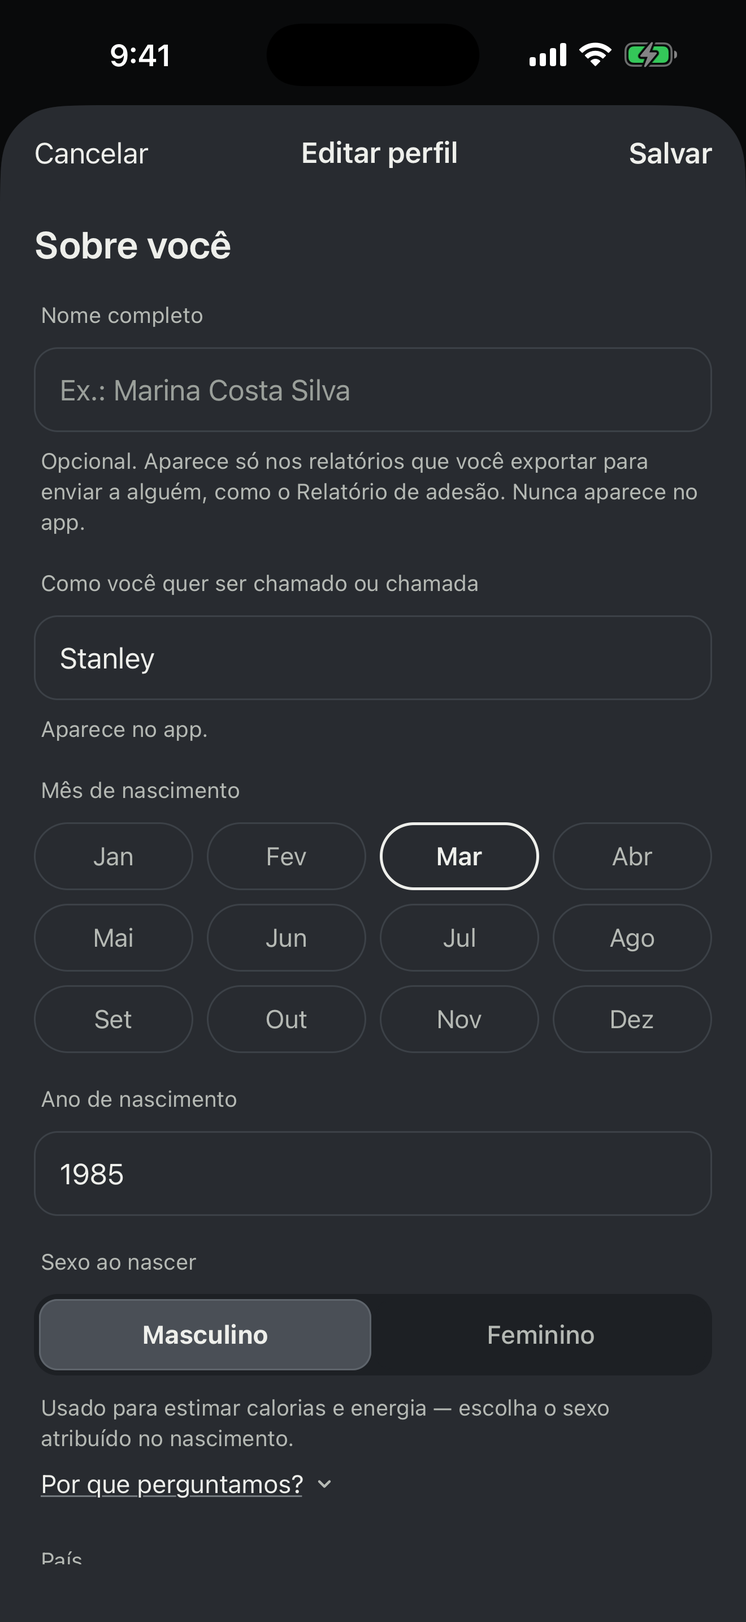
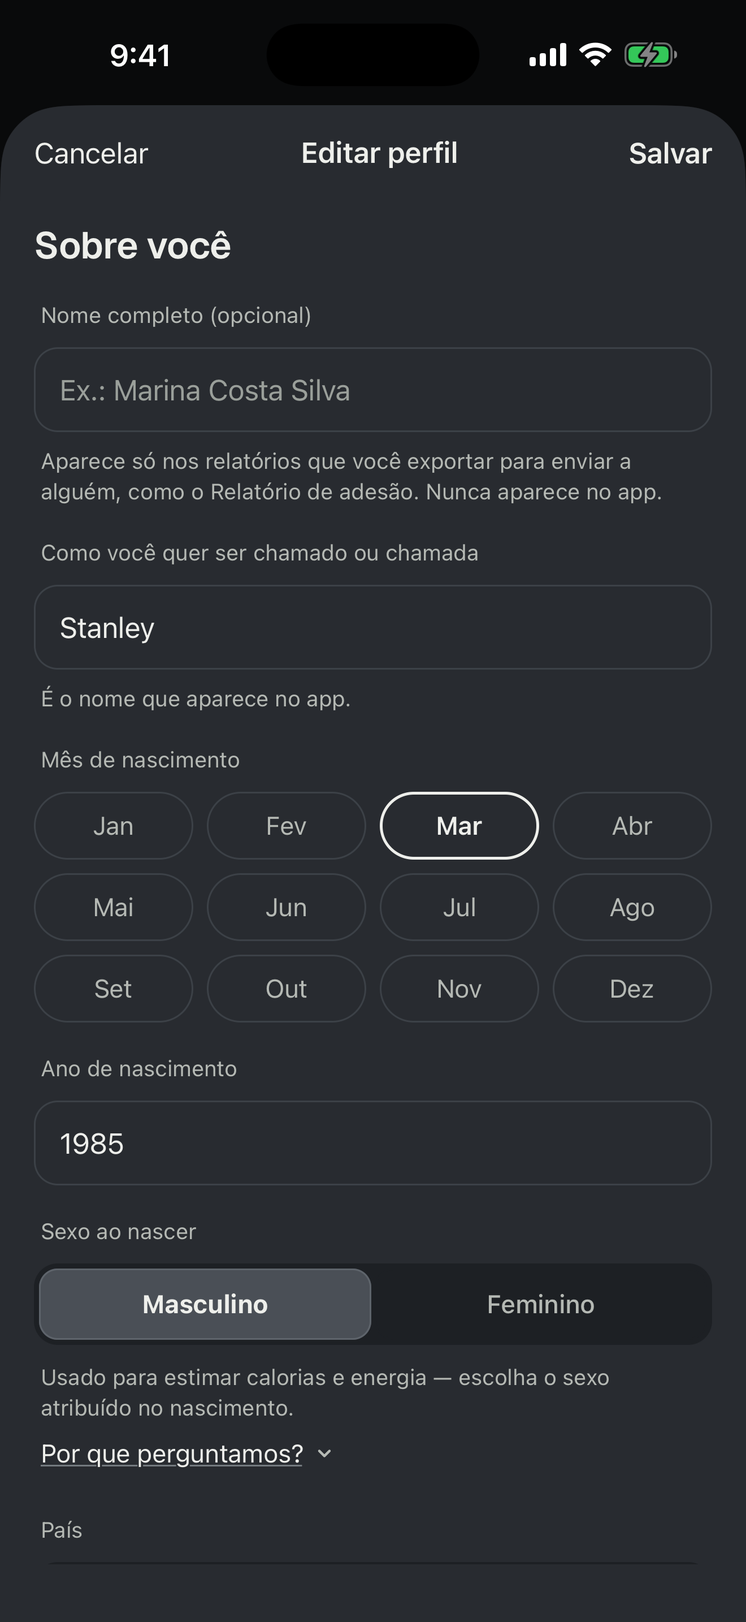
Edit profile: the newer approved copy (picture 19a9d92f, chair 2026-11-24) - Nome completo (opcional) with its hint, the nickname with E o nome que aparece no app, and the auto-fill line while the nickname holds the first name it wrote; 6 languages, test first. Spec: English dates decided by logic; 

diff --git a/i18n/translations.js b/i18n/translations.js
@@ -2787,10 +2787,11 @@ export const translations = {
     report_name_field_hint: "Saved to your profile and shown only in the reports you export. You can change it in Edit profile.",
     report_name_generate: "Create report",
     profile_nickname: "What should we call you?",
-    profile_nickname_hint: "Shown in the app.",
-    profile_report_name: "Full name",
+    profile_nickname_hint: "This is the name shown in the app.",
+    profile_nickname_autofill: "Filled in with your first name. You can erase it and write a nickname.",
+    profile_report_name: "Full name (optional)",
     profile_report_name_placeholder: "E.g. Sam Carter",
-    profile_report_name_hint: "Optional. Shown only in the reports you export to send to someone, like the Adherence report. Never shown in the app.",
+    profile_report_name_hint: "Shown only in the reports you export to send to someone, like the Adherence report. Never shown in the app.",
     vials_count_of: '{x} of {y}',
     vials_days_of_total: '{x} of {y} days',
     vials_mix_summary: '{amount} mg · {water} ml diluent',
@@ -5960,10 +5961,11 @@ export const translations = {
     report_name_field_hint: "Se guarda en tu perfil y aparece solo en los informes que exportes. Puedes cambiarlo en Editar perfil.",
     report_name_generate: "Generar informe",
     profile_nickname: "¿Cómo quieres que te llamemos?",
-    profile_nickname_hint: "Aparece en la app.",
-    profile_report_name: "Nombre completo",
+    profile_nickname_hint: "Es el nombre que aparece en la app.",
+    profile_nickname_autofill: "Rellenado con tu primer nombre. Puedes borrarlo y escribir un apodo.",
+    profile_report_name: "Nombre completo (opcional)",
     profile_report_name_placeholder: "Ej.: Lucía García López",
-    profile_report_name_hint: "Opcional. Aparece solo en los informes que exportes para enviar a alguien, como el Informe de adherencia. Nunca aparece en la app.",
+    profile_report_name_hint: "Aparece solo en los informes que exportes para enviar a alguien, como el Informe de adherencia. Nunca aparece en la app.",
     vials_count_of: '{x} de {y}',
     vials_days_of_total: '{x} de {y} días',
     vials_mix_summary: '{amount} mg · {water} ml de diluyente',
@@ -9133,10 +9135,11 @@ export const translations = {
     report_name_field_hint: "Fica salvo no seu perfil e aparece só nos relatórios que você exportar. Você pode mudar em Editar perfil.",
     report_name_generate: "Gerar relatório",
     profile_nickname: "Como você quer ser chamado ou chamada",
-    profile_nickname_hint: "Aparece no app.",
-    profile_report_name: "Nome completo",
+    profile_nickname_hint: "É o nome que aparece no app.",
+    profile_nickname_autofill: "Preenchido com o seu primeiro nome. Você pode apagar e escrever um apelido.",
+    profile_report_name: "Nome completo (opcional)",
     profile_report_name_placeholder: "Ex.: Marina Costa Silva",
-    profile_report_name_hint: "Opcional. Aparece só nos relatórios que você exportar para enviar a alguém, como o Relatório de adesão. Nunca aparece no app.",
+    profile_report_name_hint: "Aparece só nos relatórios que você exportar para enviar a alguém, como o Relatório de adesão. Nunca aparece no app.",
     vials_count_of: '{x} de {y}',
     vials_days_of_total: '{x} de {y} dias',
     vials_mix_summary: '{amount} mg · {water} ml de diluente',
@@ -12305,10 +12308,11 @@ export const translations = {
     report_name_field_hint: "Il est enregistré dans votre profil et n'apparaît que dans les rapports que vous exportez. Vous pouvez le modifier dans Modifier le profil.",
     report_name_generate: "Générer le rapport",
     profile_nickname: "Comment souhaitez-vous être appelé(e) ?",
-    profile_nickname_hint: "Affiché dans l'app.",
-    profile_report_name: "Nom complet",
+    profile_nickname_hint: "C'est le nom affiché dans l'app.",
+    profile_nickname_autofill: "Rempli avec votre prénom. Vous pouvez l'effacer et écrire un surnom.",
+    profile_report_name: "Nom complet (facultatif)",
     profile_report_name_placeholder: "Ex. : Camille Martin",
-    profile_report_name_hint: "Facultatif. N'apparaît que dans les rapports que vous exportez pour les envoyer à quelqu'un, comme le Rapport d'observance. N'apparaît jamais dans l'app.",
+    profile_report_name_hint: "N'apparaît que dans les rapports que vous exportez pour les envoyer à quelqu'un, comme le Rapport d'observance. N'apparaît jamais dans l'app.",
     vials_count_of: '{x} sur {y}',
     vials_days_of_total: '{x} sur {y} jours',
     vials_mix_summary: '{amount} mg · {water} ml de diluant',
@@ -15477,10 +15481,11 @@ export const translations = {
     report_name_field_hint: "Wird in deinem Profil gespeichert und erscheint nur in den Berichten, die du exportierst. Du kannst ihn unter Profil bearbeiten ändern.",
     report_name_generate: "Bericht erstellen",
     profile_nickname: "Wie möchtest du genannt werden?",
-    profile_nickname_hint: "Erscheint in der App.",
-    profile_report_name: "Vollständiger Name",
+    profile_nickname_hint: "Das ist der Name, der in der App erscheint.",
+    profile_nickname_autofill: "Mit deinem Vornamen ausgefüllt. Du kannst ihn löschen und einen Spitznamen eintragen.",
+    profile_report_name: "Vollständiger Name (optional)",
     profile_report_name_placeholder: "z. B. Lena Schmidt",
-    profile_report_name_hint: "Optional. Erscheint nur in Berichten, die du exportierst, um sie jemandem zu schicken, wie dem Bericht zur Dosis-Einhaltung. Erscheint nie in der App.",
+    profile_report_name_hint: "Erscheint nur in Berichten, die du exportierst, um sie jemandem zu schicken, wie dem Bericht zur Dosis-Einhaltung. Erscheint nie in der App.",
     vials_count_of: '{x} von {y}',
     vials_days_of_total: '{x} von {y} Tagen',
     vials_mix_summary: '{amount} mg · {water} ml Lösungsmittel',
@@ -18650,10 +18655,11 @@ export const translations = {
     report_name_field_hint: "Viene salvato nel tuo profilo e appare solo nei report che esporti. Puoi cambiarlo in Modifica profilo.",
     report_name_generate: "Genera report",
     profile_nickname: "Come vuoi essere chiamato o chiamata?",
-    profile_nickname_hint: "Appare nell'app.",
-    profile_report_name: "Nome completo",
+    profile_nickname_hint: "È il nome che appare nell'app.",
+    profile_nickname_autofill: "Compilato con il tuo nome. Puoi cancellarlo e scrivere un soprannome.",
+    profile_report_name: "Nome completo (facoltativo)",
     profile_report_name_placeholder: "Es.: Giulia Rossi",
-    profile_report_name_hint: "Facoltativo. Appare solo nei report che esporti per inviarli a qualcuno, come il Report di aderenza. Non appare mai nell'app.",
+    profile_report_name_hint: "Appare solo nei report che esporti per inviarli a qualcuno, come il Report di aderenza. Non appare mai nell'app.",
     vials_count_of: '{x} di {y}',
     vials_days_of_total: '{x} di {y} giorni',
     vials_mix_summary: '{amount} mg · {water} ml di diluente',

diff --git a/screens/SettingsScreen.js b/screens/SettingsScreen.js
@@ -91,7 +91,7 @@ import { teamMessages, settingsRow, settingsRowLine } from '../lib/teamMessages'
 import { useTeamMessages } from '../lib/useTeamMessages';
 import { SexWhy, SexChangeNote } from '../components/SexAtBirthWhy';
 import { supplyState } from '../lib/supplyLow';
-import { birthMonthIndex, getNickname, getReportName, nicknameFields, reportNameFields, saveReportName, nicknameFollows, nicknameAfterFullName } from '../lib/profileName';
+import { birthMonthIndex, getNickname, getReportName, nicknameFields, reportNameFields, saveReportName, nicknameFollows, nicknameAfterFullName, firstNameOf } from '../lib/profileName';
 import { buildAdherenceReport } from '../lib/adherenceReportDoc';
 import { reportNameSheet } from '../lib/reportNameSheet';
 import { hasNativeModule } from '../lib/nativeModule';
@@ -306,12 +306,16 @@ export default function SettingsScreen({ navigation }) {
   const loadedReportName = useRef('');
   // AR-17b: an empty nickname follows the full name typed (first name) until she edits it herself.
   const nicknameFollowsRef = useRef(false);
+  // While the nickname holds what the auto-fill wrote, "Preenchido com o seu primeiro nome…" replaces its hint.
+  const [nicknameAuto, setNicknameAuto] = useState(false);
   function onFullNameChange(v) {
     setReportName(v);
     setDisplayName((nick) => nicknameAfterFullName({ following: nicknameFollowsRef.current, nickname: nick, fullName: v }));
+    setNicknameAuto(nicknameFollowsRef.current && !!firstNameOf(v));
   }
   function onNicknameChange(v) {
     nicknameFollowsRef.current = false; // she wrote or erased it: never follow again in this edit
+    setNicknameAuto(false);
     setDisplayName(v);
   }
   const [gender, setGender] = useState('');
@@ -591,6 +595,7 @@ export default function SettingsScreen({ navigation }) {
       const named = profileUser(user);
       setDisplayName(getNickname(named));
       nicknameFollowsRef.current = nicknameFollows(getNickname(named)); // an existing nickname is never rewritten
+      setNicknameAuto(false);
       loadedReportName.current = getReportName(named);
       setReportName(loadedReportName.current);
       setGender(pm.gender || '');
@@ -1861,7 +1866,7 @@ export default function SettingsScreen({ navigation }) {
                 autoCorrect={false}
                 accessibilityLabel={t('profile_nickname')}
               />
-              <Text style={[s.editHint, s.editHintUnder]}>{t('profile_nickname_hint')}</Text>
+              <Text style={[s.editHint, s.editHintUnder, nicknameAuto && s.editHintAuto]}>{nicknameAuto ? t('profile_nickname_autofill') : t('profile_nickname_hint')}</Text>
             </View>
 
             <View style={s.editField}>
@@ -2229,6 +2234,7 @@ const settingsGraduated = (c) => ({
   editField: { marginTop: 18 },
   editLabel: { fontSize: 13, lineHeight: 18, fontWeight: '400', color: c.ink2, marginBottom: 10, paddingHorizontal: 4 },
   editHint: { fontSize: 13, lineHeight: 18, color: c.ink2, marginTop: -6, marginBottom: 10, paddingHorizontal: 4 },
+  editHintAuto: { color: c.ink }, // picture 19a9d92f .hp.auto: the auto-fill line in ink
   editHintUnder: { marginTop: 8, marginBottom: 0 }, // AR-17: the hint under its field ("Aparece no app.")
   editHintTop: { marginTop: -8 }, // DV-113: the hint right under its section title (no field label above it)
   sexHelp: { fontSize: 13, lineHeight: 18, color: c.ink2, marginTop: 10, paddingHorizontal: 4 },

diff --git a/__tests__/reportName.test.js b/__tests__/reportName.test.js
@@ -60,8 +60,10 @@ test('AR-17b: Edit profile wires the follow: the full-name field fills the nickn
   assert.match(s, /onChangeText=\{onNicknameChange\}/);
   const full = s.slice(s.indexOf('function onFullNameChange'), s.indexOf('function onFullNameChange') + 400);
   assert.match(full, /nicknameAfterFullName\(/);
+  assert.match(full, /setNicknameAuto\(/);
   const nick = s.slice(s.indexOf('function onNicknameChange'), s.indexOf('function onNicknameChange') + 300);
   assert.match(nick, /nicknameFollowsRef\.current = false/);
+  assert.match(nick, /setNicknameAuto\(false\)/);
 });
 
 test('AR-18/AR-19: saveReportName sends ONLY report_name (a merge write), trimmed; an empty name writes nothing', async () => {
@@ -110,9 +112,14 @@ test('AR-17: Edit profile shows the nickname with "Aparece no app." and the opti
   assert.equal(translations.fr.profile_nickname, 'Comment souhaitez-vous être appelé(e) ?');
   assert.equal(translations.de.profile_nickname, 'Wie möchtest du genannt werden?');
   assert.equal(translations.it.profile_nickname, 'Come vuoi essere chiamato o chiamata?');
-  assert.equal(translations.pt.profile_nickname_hint, 'Aparece no app.');
-  assert.equal(translations.pt.profile_report_name, 'Nome completo');
-  assert.equal(translations.pt.profile_report_name_hint, 'Opcional. Aparece só nos relatórios que você exportar para enviar a alguém, como o Relatório de adesão. Nunca aparece no app.');
+  // Founder 2026-11-24 (picture 19a9d92f, chair): the newer copy.
+  assert.equal(translations.pt.profile_nickname_hint, 'É o nome que aparece no app.');
+  assert.equal(translations.pt.profile_report_name, 'Nome completo (opcional)');
+  assert.equal(translations.pt.profile_report_name_hint, 'Aparece só nos relatórios que você exportar para enviar a alguém, como o Relatório de adesão. Nunca aparece no app.');
+  assert.equal(translations.pt.profile_nickname_autofill, 'Preenchido com o seu primeiro nome. Você pode apagar e escrever um apelido.');
+  for (const l of LANGS) assert.ok(translations[l].profile_nickname_autofill, l);
+  // the auto-fill line replaces the hint while the nickname holds what the auto-fill wrote
+  assert.match(ep, /nicknameAuto \? t\('profile_nickname_autofill'\) : t\('profile_nickname_hint'\)/);
   // the full name is optional: not in the required list
   const save = s.slice(s.indexOf('async function saveProfile'), s.indexOf('const profileData'));
   assert.doesNotMatch(save, /report_name|reportName/);

diff --git a/__tests__/helpers/settingsFetchUser.js b/__tests__/helpers/settingsFetchUser.js
@@ -43,7 +43,7 @@ function settings({ getCachedUser, cap = 60 } = {}) {
     // AR-18: the two names are read through lib/profileName, from the profile with the kept answer laid over it.
     profileUser: (u) => u, getNickname: require('../../lib/profileName').getNickname, getReportName: require('../../lib/profileName').getReportName,
     nicknameFollows: require('../../lib/profileName').nicknameFollows, nicknameFollowsRef: { current: false },
-    loadedReportName: { current: '' }, setReportName: set('reportName'),
+    loadedReportName: { current: '' }, setReportName: set('reportName'), setNicknameAuto: () => {},
     supabase: { auth: { updateUser: async () => ({}) } },
     getCalcInputs: async () => null, setActivityLevel: set('activityLevel'), setHasProvider: set('hasProvider'),
     setShowEditProfile: set('showEditProfile'), editProfileOpen: { current: false }, profileLoaded: deferred(),

diff --git a/docs/specs/adherence-report.md b/docs/specs/adherence-report.md
@@ -2,7 +2,7 @@
 
 - source-spec: docs/design/relatorio-adesao.html (approved by the founder 2026-11-24 13:12 EST, Second Brain 02-decisoes.md: "Concordo também com as suas propostas do relatório de adesão e da adição do nome")
 - purpose: the report (Settings › Adherence report) goes to a third person, usually a doctor, who never saw the app. Every number comes in a sentence that explains itself, in the third person; the top says what the report is and where it comes from; "Como ler este relatório" defines each term once. The numbers are the same as today (lib/adherenceReport, lib/doseStreak, the vial count). Nothing is interpreted (product guardrail, AI hard line).
-- decisions applied: text + A4 PDF, PDF the main button (founder 2026-11-24); the adherence PDF stays free like today's text (not answered by the founder; the recommendation stands, he can change it); the labs/vaccines PDF also carries the full name, with the same sheet first; in-app words (Dose concluída / pulada / perdida) do not change, only the report; the nickname (display_name) is never printed in a report; the full name is the new user_metadata key report_name (never full_name, which Google writes by itself), empty for everyone at first, never filled from Apple or Google; the profile move to a synced table is feat/profile-synced (same release), so this branch reads and writes both names only through lib/profileName.js (getNickname, getReportName, saveReportName, reportNameFields).
+- decisions applied (chair 2026-11-24): the newer Edit profile copy (picture 19a9d92f); English dates keep the month name (decided by logic); no page numbers in the PDF (technical limit, accepted). Earlier: text + A4 PDF, PDF the main button (founder 2026-11-24); the adherence PDF stays free like today's text (not answered by the founder; the recommendation stands, he can change it); the labs/vaccines PDF also carries the full name, with the same sheet first; in-app words (Dose concluída / pulada / perdida) do not change, only the report; the nickname (display_name) is never printed in a report; the full name is the new user_metadata key report_name (never full_name, which Google writes by itself), empty for everyone at first, never filled from Apple or Google; the profile move to a synced table is feat/profile-synced (same release), so this branch reads and writes both names only through lib/profileName.js (getNickname, getReportName, saveReportName, reportNameFields).
 - out of scope here: the "Em jejum / Com refeição" counts and the observations (branch feat/dose-observation). The builder has one named hook for per-protocol extra sections (AR-22) so that branch plugs in after merge; until then the "what this report is" block and "Como ler" leave out the marks and observations wording.
 - checklist-signed: pending (the picture was approved 2026-11-24; this checklist is derived from it row by row)
 - committed-to: next build (approved → next build)
@@ -13,7 +13,7 @@
 |---|---|---|---|---|
 | AR-1 | The report opens with the "what this report is" block: generated by the DoseTrace app, a personal journal where the person herself records the doses she takes; the app measures, verifies and interprets nothing (the numbers are counts of those records); the scheduled doses follow the schedule she set up. Text and PDF, 6 languages. | built | __tests__/adherenceReportForDoctor.test.js: "AR-1/AR-3/AR-4: the top says what the report is"; sim 2026-11-24: iPhone 17 Pro Max, pt, real test-account data, the block on top of the preview and the PDF (docs/evidence/adherence-report/report-preview-dark.png, report-preview-light.png, pdf-page1.png) | The picture's block also says she "marca se foram em jejum ou com refeição e escreve observações": left out until feat/dose-observation ships those marks (they do not exist yet; a report must not promise them). |
 | AR-2 | The name line is the full name (report_name) only. Without a full name there is no name line. The nickname (display_name) and the e-mail are never printed, in the text or the PDF. | built | __tests__/adherenceReportForDoctor.test.js: "AR-2: without a full name there is no name line"; __tests__/adherenceReportForDoctor.test.js: "AR-2: the builder never reads a nickname or an e-mail"; sim 2026-11-24: "Gerar sem nome": no name line, no nickname, no e-mail (docs/evidence/adherence-report/report-preview-no-name-light.png) |  |
-| AR-3 | Period line: "Período: 26/10/2026 a 24/11/2026 (últimos 30 dias, até a hora em que o relatório foi gerado)" — the window of Today's 30-day ring (local midnight 29 days back → the moment of generation), dates in the app language. | built | __tests__/adherenceReportForDoctor.test.js: "AR-3: numeric report dates in each language"; __tests__/adherenceReportForDoctor.test.js: "AR-1/AR-3/AR-4: the top says what the report is"; sim 2026-11-24: Período: 26/10/2026 a 24/11/2026 (…) on the preview | English keeps the month name ("Oct 26, 2026 to Nov 24, 2026"): a numeric 03/04 reads differently in the US and the UK. |
+| AR-3 | Period line: "Período: 26/10/2026 a 24/11/2026 (últimos 30 dias, até a hora em que o relatório foi gerado)" — the window of Today's 30-day ring (local midnight 29 days back → the moment of generation), dates in the app language. | built | __tests__/adherenceReportForDoctor.test.js: "AR-3: numeric report dates in each language"; __tests__/adherenceReportForDoctor.test.js: "AR-1/AR-3/AR-4: the top says what the report is"; sim 2026-11-24: Período: 26/10/2026 a 24/11/2026 (…) on the preview | Decided by logic (chair 2026-11-24): English keeps the month name ("Oct 26, 2026 to Nov 24, 2026"), unambiguous for a doctor in the US or the UK; the other languages use numeric dates as in the picture. |
 | AR-4 | "Gerado em: 24/11/2026 às 09:15" near the top (date AND time, the app's 12/24 h choice) and again in the footer ("Gerado pelo DoseTrace em …"). | built | __tests__/adherenceReportForDoctor.test.js: "AR-1/AR-3/AR-4: the top says what the report is"; sim 2026-11-24: "Gerado em: 24/11/2026 às 13:46" on top and "Gerado pelo DoseTrace em … às 13:46." in the PDF footer |  |
 | AR-5 | Summary: "Protocolos neste relatório: N (nenhum encerrado / 1 encerrado / n encerrados)" counting the protocols listed (ended ones included); "Adesão geral: 97%"; "Doses registradas como tomadas ÷ doses previstas no período: 33 de 34."; "34 doses previstas; 33 registradas como tomadas; 1 marcada como não tomada; 0 sem nenhum registro." (singular/plural right). | built | __tests__/adherenceReportForDoctor.test.js: "AR-5: the summary counts the protocols listed and the ended ones"; sim 2026-11-24: "Protocolos neste relatório: 10 (2 encerrados)", "Adesão geral: 46%", 68 de 147 = the Today ring "68 de 147 · 46%" |  |
 | AR-6 | Each protocol: its name (an ended one says "· Encerrado em {data}"), then "Dose configurada: 2 cápsulas, diariamente". | built | __tests__/adherenceReportForDoctor.test.js: "AR-6 to AR-11: each protocol in self-explaining lines"; __tests__/adherenceReportForDoctor.test.js: "AR-5: the summary counts the protocols listed and the ended ones" |  |
@@ -25,9 +25,9 @@
 | AR-12 | Asterisk notes in the third person: "* O celular da pessoa não sincroniza desde {data}: as doses previstas desde então ainda não estão contadas como "sem nenhum registro", então a adesão pode aparecer maior do que é." (and the never-synced wording), the asterisk on the overall and on each affected protocol's adherence, "Doses ainda não contadas por isso: {n}" under it, and the line for periods of more than 14 days without a sync, same tone. | built | __tests__/adherenceReportForDoctor.test.js: "AR-12: the asterisk notes in the third person"; __tests__/a181UnsyncedNotice.test.js: "Report: asterisks, the explaining line" | Not seen on the simulator: the test account was synced (no held-back dose to show); covered by the test with the exact strings. |
 | AR-13 | "Como ler este relatório": Dose prevista, Registrada como tomada, Marcada como não tomada, Sem nenhum registro, Adesão, Doses tomadas seguidas, Doses restantes no frasco, * (asterisco) — each defined once, the picture's words. | built | __tests__/adherenceReportForDoctor.test.js: "AR-13/AR-14: \"Como ler este relatório\""; sim 2026-11-24: the PDF's last page (docs/evidence/adherence-report/pdf-page-how-to-read.png) | The definitions of "Em jejum / com refeição" and "Observações" come with feat/dose-observation (same reason as AR-1). |
 | AR-14 | Nothing judges: "O DoseTrace não avalia se a adesão é adequada." plus today's disclaimer ("Este é um resumo de acompanhamento de bem-estar gerado pelo usuário. Não constitui aconselhamento médico nem registro clínico."). No good/bad words, no alert colour per value, no advice, in text or PDF. | built | __tests__/adherenceReportForDoctor.test.js: "AR-13/AR-14: \"Como ler este relatório\""; __tests__/adherenceReportForDoctor.test.js: "AR-14: nothing judges" |  |
-| AR-15 | PDF A4 is the main button ("Compartilhar PDF"): the same content as an HTML page → expo-print (the path lib/exportRecords.js / My Body export already use; no native change, a build without ExpoPrint says it needs a newer version), A4 size, white paper in both themes, header "Relatório de adesão · Gerado pelo aplicativo DoseTrace", a table per protocol, "Como ler" on its own page. The file has a fixed name in the cache folder and is removed by the next export and by the sign-out / delete / switch wipes. | built | __tests__/adherenceReportForDoctor.test.js: "AR-15/AR-16: Settings builds the report with the builder"; __tests__/adherenceReportForDoctor.test.js: "AR-15: the PDF page is A4 paper"; __tests__/adherenceReportForDoctor.test.js: "AR-15: \"Como ler\" starts its own page WITH the page header"; __tests__/adherenceReportForDoctor.test.js: "AR-15: the adherence PDF has a fixed name in the cache"; sim 2026-11-24: Compartilhar PDF made dosetrace_adherence_report.pdf (A4 595×842, 5 pages) in the cache and opened the share sheet (docs/evidence/adherence-report/share-pdf-sheet-dark.png, adherence-report-sim.pdf); found and fixed there: the second page header sat before the page break | No "Página X de Y" in the header: the iOS print engine behind expo-print has no page counter. Founder to accept. |
+| AR-15 | PDF A4 is the main button ("Compartilhar PDF"): the same content as an HTML page → expo-print (the path lib/exportRecords.js / My Body export already use; no native change, a build without ExpoPrint says it needs a newer version), A4 size, white paper in both themes, header "Relatório de adesão · Gerado pelo aplicativo DoseTrace", a table per protocol, "Como ler" on its own page. The file has a fixed name in the cache folder and is removed by the next export and by the sign-out / delete / switch wipes. | built | __tests__/adherenceReportForDoctor.test.js: "AR-15/AR-16: Settings builds the report with the builder"; __tests__/adherenceReportForDoctor.test.js: "AR-15: the PDF page is A4 paper"; __tests__/adherenceReportForDoctor.test.js: "AR-15: \"Como ler\" starts its own page WITH the page header"; __tests__/adherenceReportForDoctor.test.js: "AR-15: the adherence PDF has a fixed name in the cache"; sim 2026-11-24: Compartilhar PDF made dosetrace_adherence_report.pdf (A4 595×842, 5 pages) in the cache and opened the share sheet (docs/evidence/adherence-report/share-pdf-sheet-dark.png, adherence-report-sim.pdf); found and fixed there: the second page header sat before the page break | approved 2026-11-24 (chair: accepted as a technical limit): no "Página X de Y". expo-print on iOS paginates with UIPrintPageRenderer over a WKWebView print formatter, which draws no CSS @page margin boxes (counter(page) / counter(pages)); a page number needs native code, out of scope (no native change). |
 | AR-16 | "Compartilhar como texto" is the second option, sharing the text shown in the preview exactly. Both outputs are free (no Premium check on the report). | built | __tests__/adherenceReportForDoctor.test.js: "AR-15/AR-16: Settings builds the report with the builder"; __tests__/reportPreview.test.js: "the preview shows the line and the exact text; Share runs after it closed"; sim 2026-11-24: both buttons under the preview, light and dark |  |
-| AR-17 | Edit profile: the current field is labelled "Como você quer ser chamado ou chamada" (en "What should we call you?", es "¿Cómo quieres que te llamemos?", fr "Comment souhaitez-vous être appelé(e) ?", de "Wie möchtest du genannt werden?", it "Come vuoi essere chiamato o chiamata?") with "Aparece no app." under it, and a new optional "Nome completo" field with "Opcional. Aparece só nos relatórios que você exportar para enviar a alguém, como o Relatório de adesão. Nunca aparece no app." | built | __tests__/reportName.test.js: "AR-17: Edit profile shows the nickname"; __tests__/reportName.test.js: "AR-17b: the nickname follows the full name with the first name"; __tests__/reportName.test.js: "AR-17b: Edit profile wires the follow"; sim 2026-11-24: Edit profile, full name first then the nickname, both hints (docs/evidence/adherence-report/edit-profile-dark.png, edit-profile-light.png) | Order changed by the founder 2026-11-24 (coordinator): "Nome completo" first, then the nickname, which follows the first name while it was empty and she has not edited it. |
+| AR-17 | Edit profile, in this order: "Nome completo (opcional)" with "Aparece só nos relatórios que você exportar para enviar a alguém, como o Relatório de adesão. Nunca aparece no app.", then "Como você quer ser chamado ou chamada" (en "What should we call you?", es "¿Cómo quieres que te llamemos?", fr "Comment souhaitez-vous être appelé(e) ?", de "Wie möchtest du genannt werden?", it "Come vuoi essere chiamato o chiamata?") with "É o nome que aparece no app."; while the nickname holds what the auto-fill wrote (first name of the full name, only when it was empty), the line under it reads "Preenchido com o seu primeiro nome. Você pode apagar e escrever um apelido." | built | __tests__/reportName.test.js: "AR-17: Edit profile shows the nickname"; __tests__/reportName.test.js: "AR-17b: the nickname follows the full name with the first name"; __tests__/reportName.test.js: "AR-17b: Edit profile wires the follow"; sim 2026-11-24: Edit profile, full name first then the nickname, both hints (docs/evidence/adherence-report/edit-profile-dark.png, edit-profile-light.png) | Copy and order from the newer picture 19a9d92f (chair 2026-11-24, replacing the first picture's "Nome completo" / "Aparece no app." / "Opcional. …"). |
 | AR-18 | The full name is stored as user_metadata key report_name through lib/profileName.js only. Writes merge: only that key is sent, and Edit profile sends it only when the person changed the field (an untouched or not-yet-loaded field never clears it); it is empty only when she erases it. Never written as full_name, never filled from Apple or Google, nothing copied from display_name. | built | __tests__/reportName.test.js: "AR-18: getNickname / getReportName read the two names"; __tests__/reportName.test.js: "AR-18: Edit profile sends report_name only when the person changed it"; __tests__/reportName.test.js: "AR-18/AR-19: saveReportName sends ONLY report_name"; __tests__/reportName.test.js: "AR-18: never filled from Apple or Google"; __tests__/reportName.test.js: "AR-18: the screens touch the names only through lib/profileName"; __tests__/dv008ProfileSaveError.test.js: "the profile write sends only the profile keys"; sim 2026-11-24: the name typed in the sheet came back in Edit profile with the nickname untouched; erasing it and saving brought the sheet back |  |
 | AR-19 | Before a report without a full name, the DoseTrace sheet "O relatório vai sem o seu nome" (body as the picture) with "Adicionar meu nome" and "Gerar sem nome". "Adicionar meu nome" shows the field ("Seu nome completo", hint "Fica salvo no seu perfil e aparece só nos relatórios que você exportar. Você pode mudar em Editar perfil."), "Gerar relatório" (only with a name typed) saves it to the profile and generates the report with it, "Voltar" goes back to the first sheet. With a full name, no sheet. | built | __tests__/reportName.test.js: "AR-19: the sheet before a report without a full name"; __tests__/reportName.test.js: "AR-19: DTSheet holds a text field"; __tests__/reportName.test.js: "AR-19: Settings asks before a report without a full name"; sim 2026-11-24: both steps, light and dark; "Gerar relatório" off while empty; saved and generated with the name (docs/evidence/adherence-report/name-sheet-dark.png, name-field-dark.png, name-sheet-light.png, name-field-light.png) |  |
 | AR-20 | My Body › Export › PDF (labs and vaccines) carries the full name in its header ("Nome: …"), with the same sheet first when there is none; without it, no name line. The CSV does not change. | built | __tests__/reportName.test.js: "AR-20: the labs / vaccines PDF carries the full name"; __tests__/myBody.test.js: "MB-19: the export sheet hugs its content"; sim 2026-11-24: My Body › Exportar › PDF showed the sheet; the PDF header read "Nome: Marina Costa Silva" (docs/evidence/adherence-report/labs-export-name-sheet-light.png, labs-pdf-page1-with-name.png) |  |
